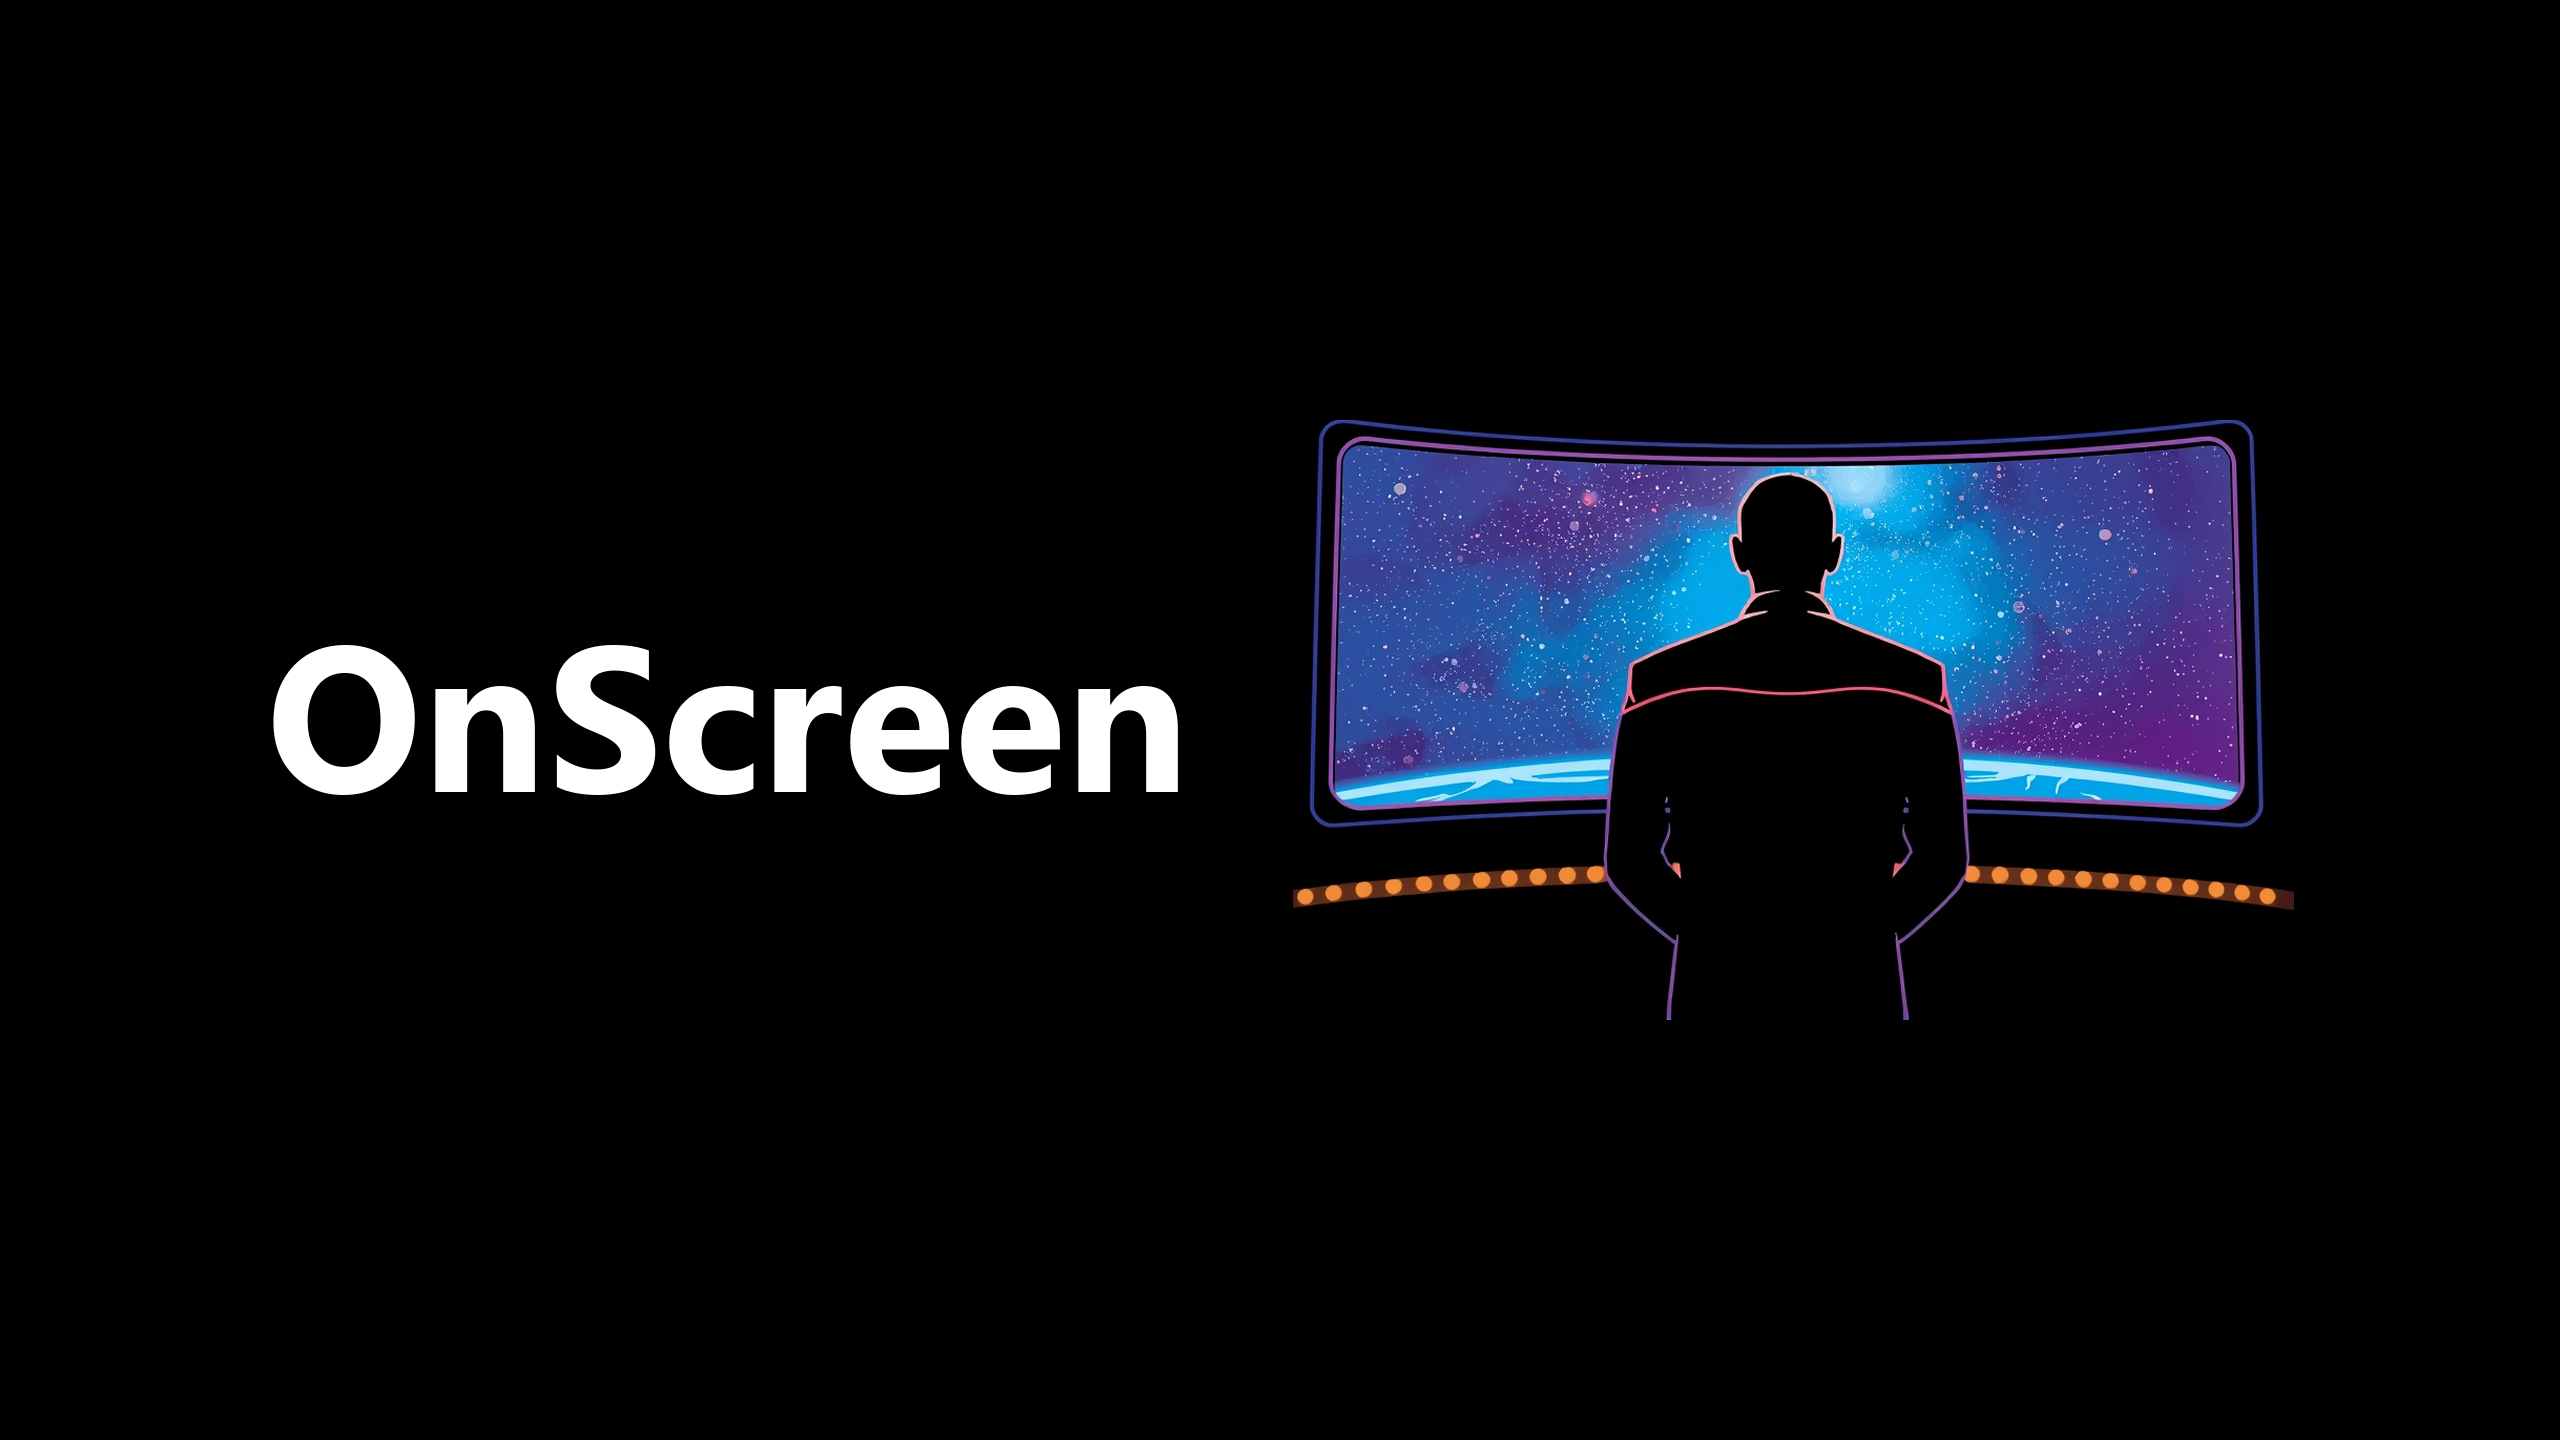
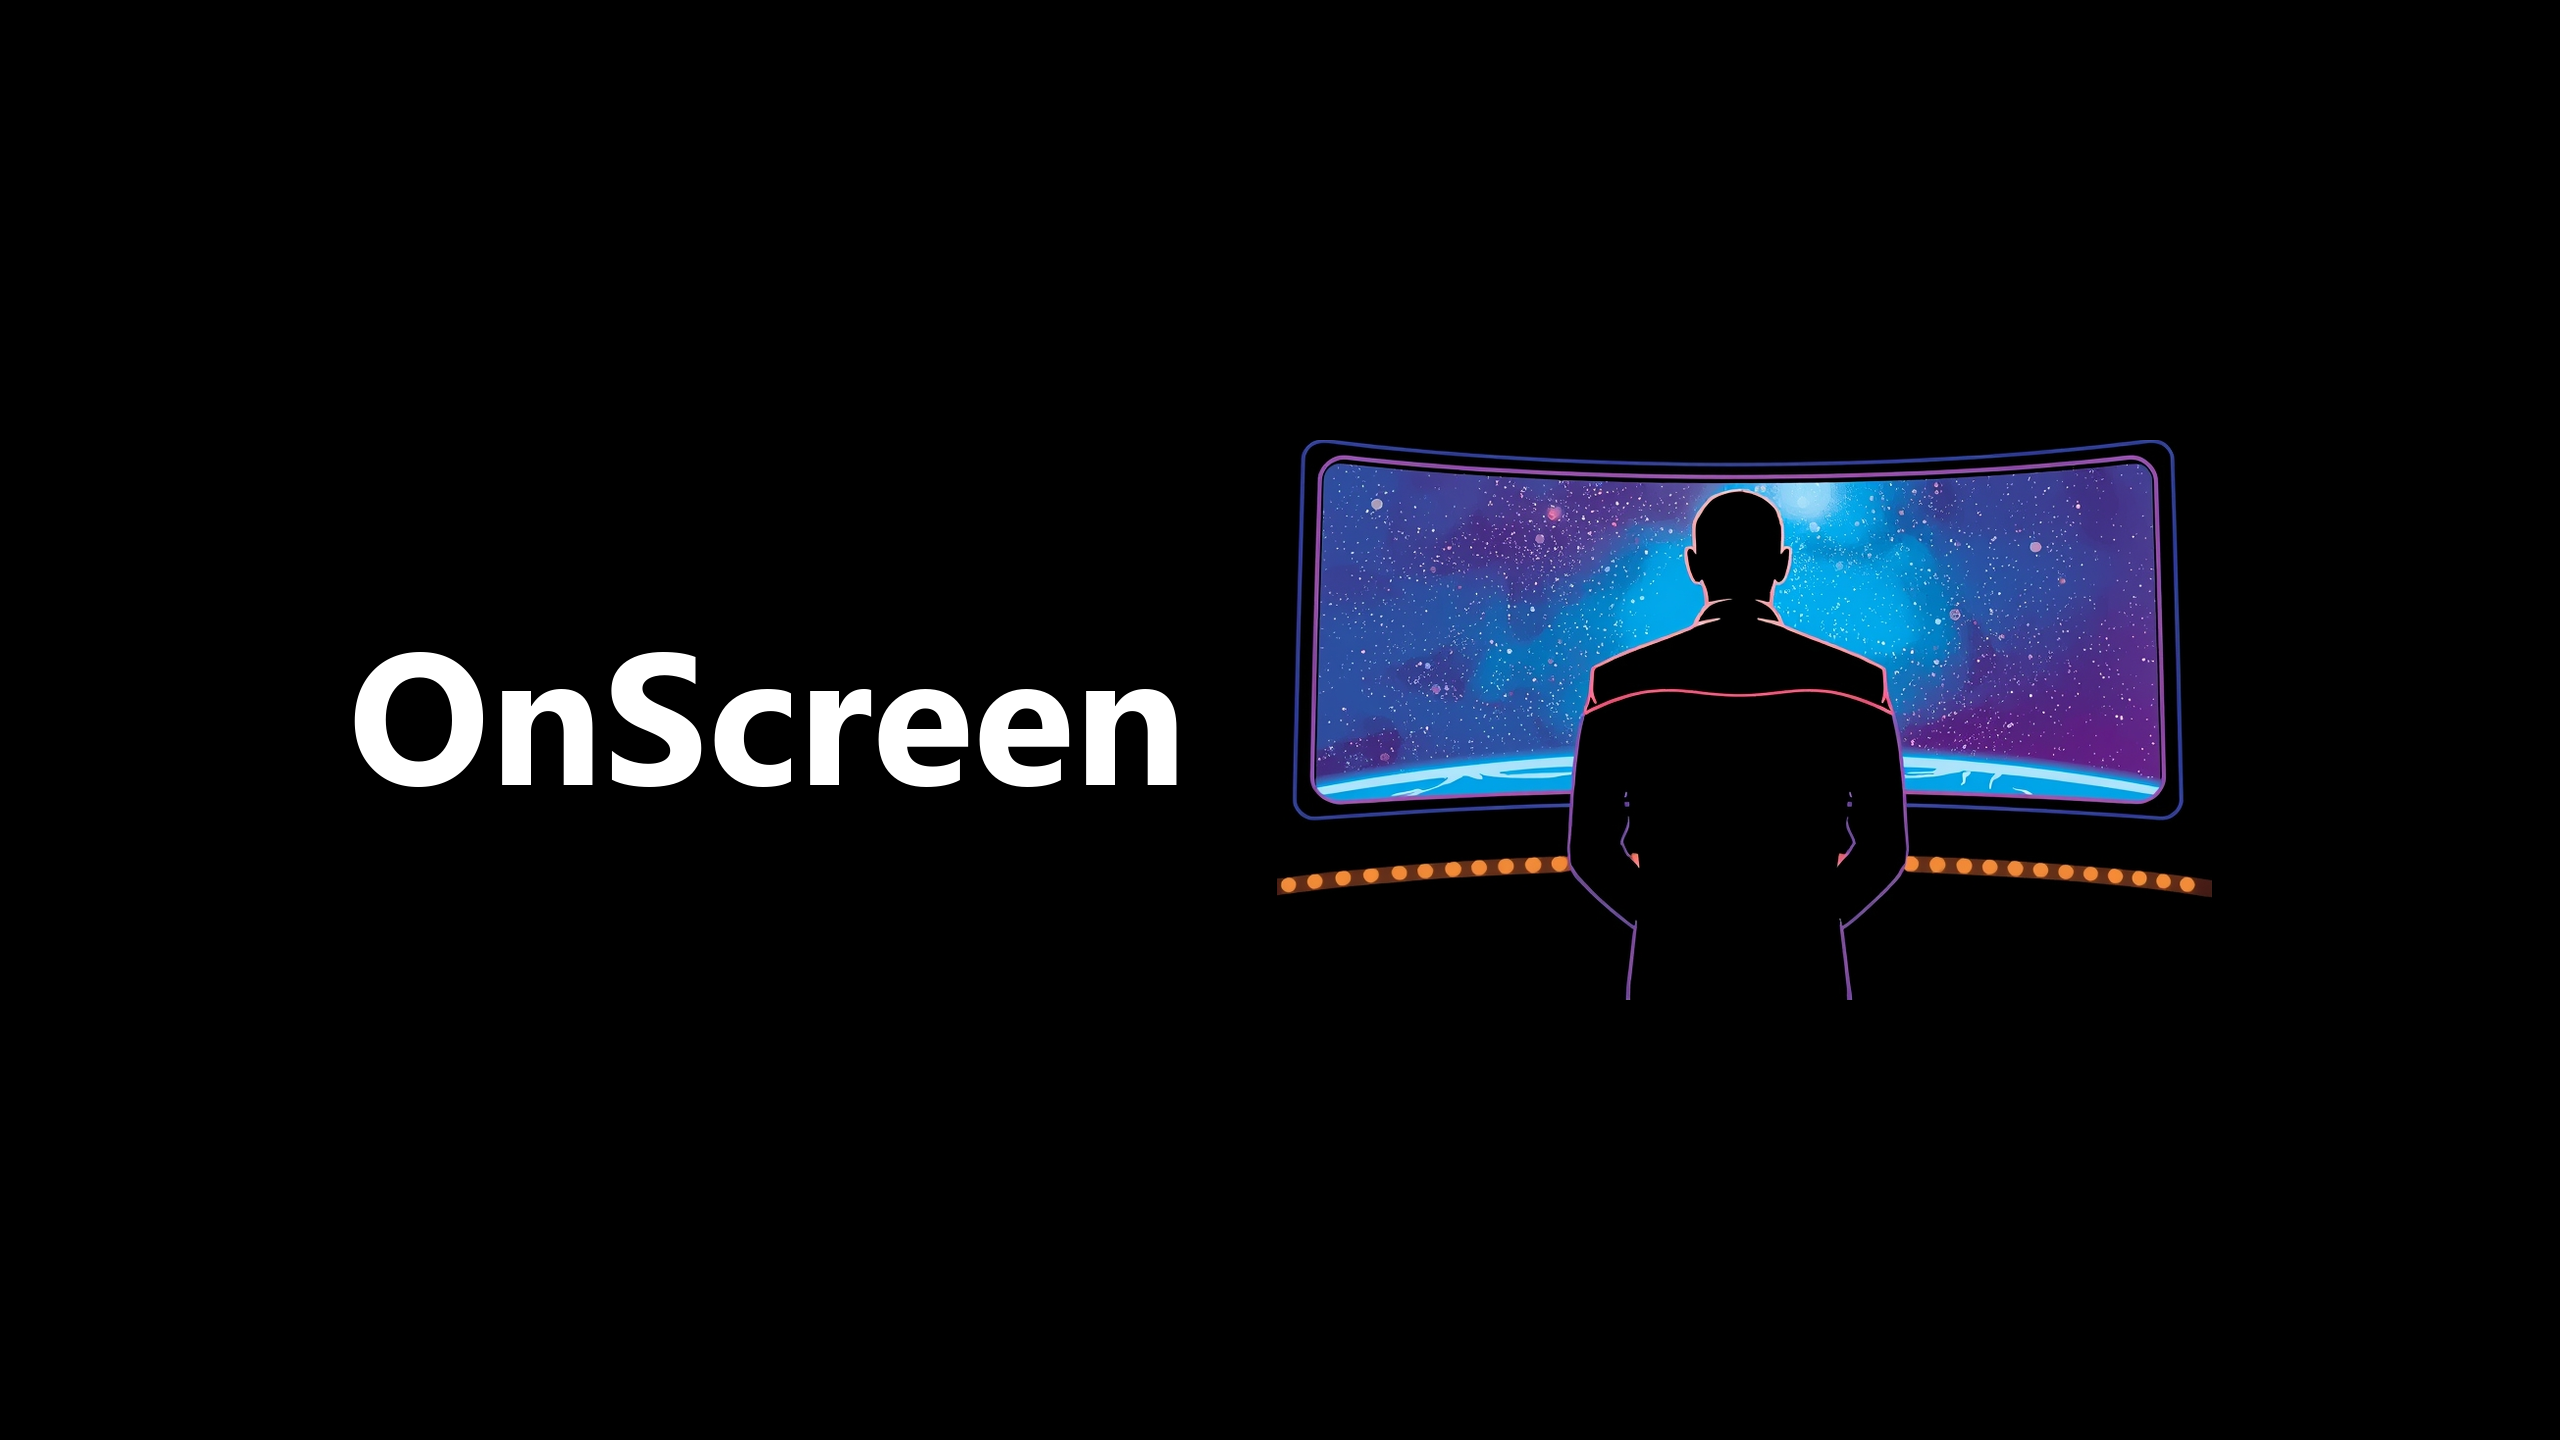
docs: Horizon Store art meets the bleed and centred-hero checks; keywords
Against Meta's asset VRCs:
- Asset.3: the title must stay out of the bleed areas, top and bottom
  20% and the left and right 10%. The landscape cover's title started
  10.5% in; it now starts 14% in. render-art.py now checks every image
  and fails the run if a title strays.
- Asset.4: the hero's branding must be centred. Its title spanned
  20-50% of the width, so a centre crop cut it; the title and art are
  now packed into the middle 1600px.

The listing doc gains the keywords and a checklist of the asset VRCs.

Changed region(s): [[0.5, 0.2812, 0.9062, 0.6875], [0.0938, 0.4375, 0.4375, 0.5625]]

diff --git a/docs/store-assets/meta-horizon-store/render-art.py b/docs/store-assets/meta-horizon-store/render-art.py
@@ -4,7 +4,10 @@ Sizes from Meta's asset guidelines (developers.meta.com/horizon/resources/
 asset-guidelines): Hero 3000x900, Cover Landscape 2560x1440, Cover Square
 1440x1440, Cover Portrait 1008x1440, Mini Landscape 1080x360, Icon 512x512
 (opaque), Logo (transparent). The title must match the app name exactly
-("OnScreen") and stay out of the top and bottom 20% (VRC.Quest.Asset.3).
+("OnScreen") and stay out of the bleed areas, the top and bottom 20% and
+the left and right 10% (VRC.Quest.Asset.3); the hero's branding sits in
+its centre, so a centre crop keeps it whole (VRC.Quest.Asset.4).
+check_bleed() fails the run if a title strays.
 
 Run: python render-art.py   (writes next to this file)
 """
@@ -38,25 +41,40 @@ def font_for_height(cap_px):
 
 
 def draw_title(img, cx, cy, cap_px, mode='RGB'):
+    """Draw the title centred on (cx, cy); returns its box (l, t, r, b)."""
     d = ImageDraw.Draw(img)
     f = font_for_height(cap_px)
     b = d.textbbox((0, 0), TITLE, font=f)
     w, h = b[2] - b[0], b[3] - b[1]
     d.text((cx - w / 2 - b[0], cy - h / 2 - b[1]), TITLE, font=f, fill=(255, 255, 255, 255) if mode == 'RGBA' else (255, 255, 255))
-    return w
+    return (cx - w / 2, cy - h / 2, cx + w / 2, cy + h / 2)
 
 
-def side_by_side(W, H, art_h, cap, name):
-    """Title left, art right, both on the vertical centre line."""
+def check_bleed(name, W, H, box, centre_crop=False):
+    """Fail if the title is in a bleed area (VRC.Quest.Asset.3), or, for the
+    hero, outside the middle 16:9 crop of its height (VRC.Quest.Asset.4)."""
+    l, t, r, b = box
+    assert l >= W * 0.10 and r <= W * 0.90, f'{name}: title in the side bleed ({l:.0f}-{r:.0f} of {W})'
+    assert t >= H * 0.20 and b <= H * 0.80, f'{name}: title in the top/bottom bleed ({t:.0f}-{b:.0f} of {H})'
+    if centre_crop:
+        cw = H * 16 / 9
+        assert l >= (W - cw) / 2 and r <= (W + cw) / 2, f'{name}: title outside the centre {cw:.0f}px'
+    print(f'{name}: title x {l / W:.0%}-{r / W:.0%}, y {t / H:.0%}-{b / H:.0%}')
+
+
+def side_by_side(W, H, art_h, cap, name, gap_frac=0.04, centre_crop=False):
+    """Title left, art right, both on the vertical centre line, the pair
+    centred."""
     img = Image.new('RGB', (W, H), (0, 0, 0))
     a = art(art_h)
-    gap = W * 0.04
+    gap = W * gap_frac
     f = font_for_height(cap)
     tb = ImageDraw.Draw(img).textbbox((0, 0), TITLE, font=f)
     tw = tb[2] - tb[0]
     total = tw + gap + a.width
     x0 = (W - total) / 2
-    draw_title(img, x0 + tw / 2, H / 2, cap)
+    box = draw_title(img, x0 + tw / 2, H / 2, cap)
+    check_bleed(name, W, H, box, centre_crop)
     img.paste(a, (round(x0 + tw + gap), round((H - a.height) / 2)))
     img.save(os.path.join(HERE, name), optimize=True)
 
@@ -69,12 +87,15 @@ def stacked(W, H, art_w, cap, name):
     block = a.height + cap * 2.2
     y = band_top + (band_bottom - band_top - block) / 2
     img.paste(a, (round((W - a.width) / 2), round(y)))
-    draw_title(img, W / 2, y + a.height + cap * 1.3, cap)
+    box = draw_title(img, W / 2, y + a.height + cap * 1.3, cap)
+    check_bleed(name, W, H, box)
     img.save(os.path.join(HERE, name), optimize=True)
 
 
-side_by_side(3000, 900, 470, 150, 'hero-cover-3000x900.png')
-side_by_side(2560, 1440, 600, 150, 'cover-landscape-2560x1440.png')
+# The hero is shown cropped on some surfaces: title and art packed into the
+# middle 1600px (a 16:9 crop of its height).
+side_by_side(3000, 900, 400, 110, 'hero-cover-3000x900.png', gap_frac=0.02, centre_crop=True)
+side_by_side(2560, 1440, 560, 135, 'cover-landscape-2560x1440.png', gap_frac=0.035)
 side_by_side(1080, 360, 190, 62, 'mini-landscape-1080x360.png')
 stacked(1440, 1440, 980, 130, 'cover-square-1440x1440.png')
 stacked(1008, 1440, 820, 110, 'cover-portrait-1008x1440.png')

diff --git a/docs/store-assets/meta-horizon-store/listing-en-US.md b/docs/store-assets/meta-horizon-store/listing-en-US.md
@@ -57,6 +57,10 @@ Verify before upload: `apksigner verify --verbose app-quest-release.apk` (v2: tr
 >
 > No ads, no analytics and no tracking. The app talks only to the server you choose.
 
+**Keywords** (most important first; no other companies' trademarks):
+
+> media server, home media, personal media library, video player, movies, TV shows, music player, audiobooks, photos, self-hosted, NAS, streaming
+
 ## Content rating (IARC)
 
 Answer the IARC questionnaire for a media player with no content of its
@@ -84,6 +88,14 @@ emulator screenshot. The screenshots are the `quest` build on a
 signed in to the review server as `reviewer`, so only open-licence demo
 media shows (Blender open movies, Kevin MacLeod music under CC BY 4.0,
 NASA photos). No trailer yet (requirement not stated for 2D apps).
+
+## Asset checks (VRC.Quest.Asset.*)
+
+- **Asset.2:** the covers carry only the title, "OnScreen", with the artwork: no taglines or banners.
+- **Asset.3:** the title stays out of the bleed areas, the top and bottom 20% and the left and right 10%. `render-art.py` checks this and fails if it doesn't.
+- **Asset.4:** the hero's title and artwork sit together in the middle 1600px, so a centre crop keeps them whole.
+- **Asset.5 / Asset.6:** the screenshots are the app's own screens: no added text, logos, headsets or controllers.
+- **Asset.7 / Asset.9:** there is no trailer and no 360° preview.
 
 ## Notes for Meta's review
 
